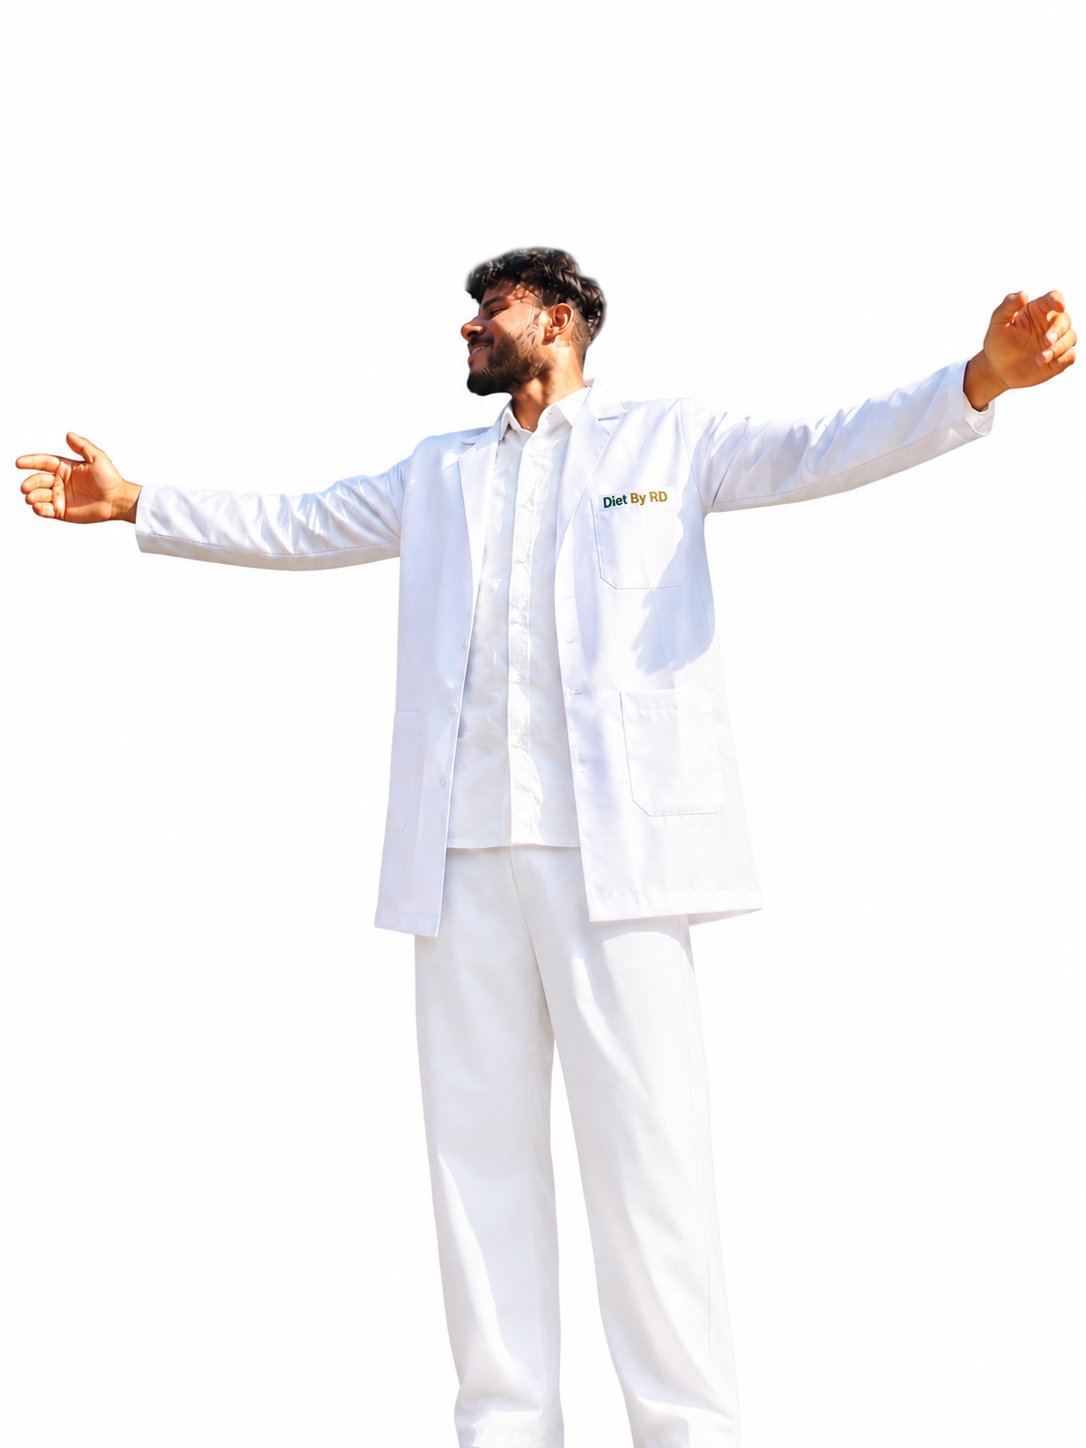
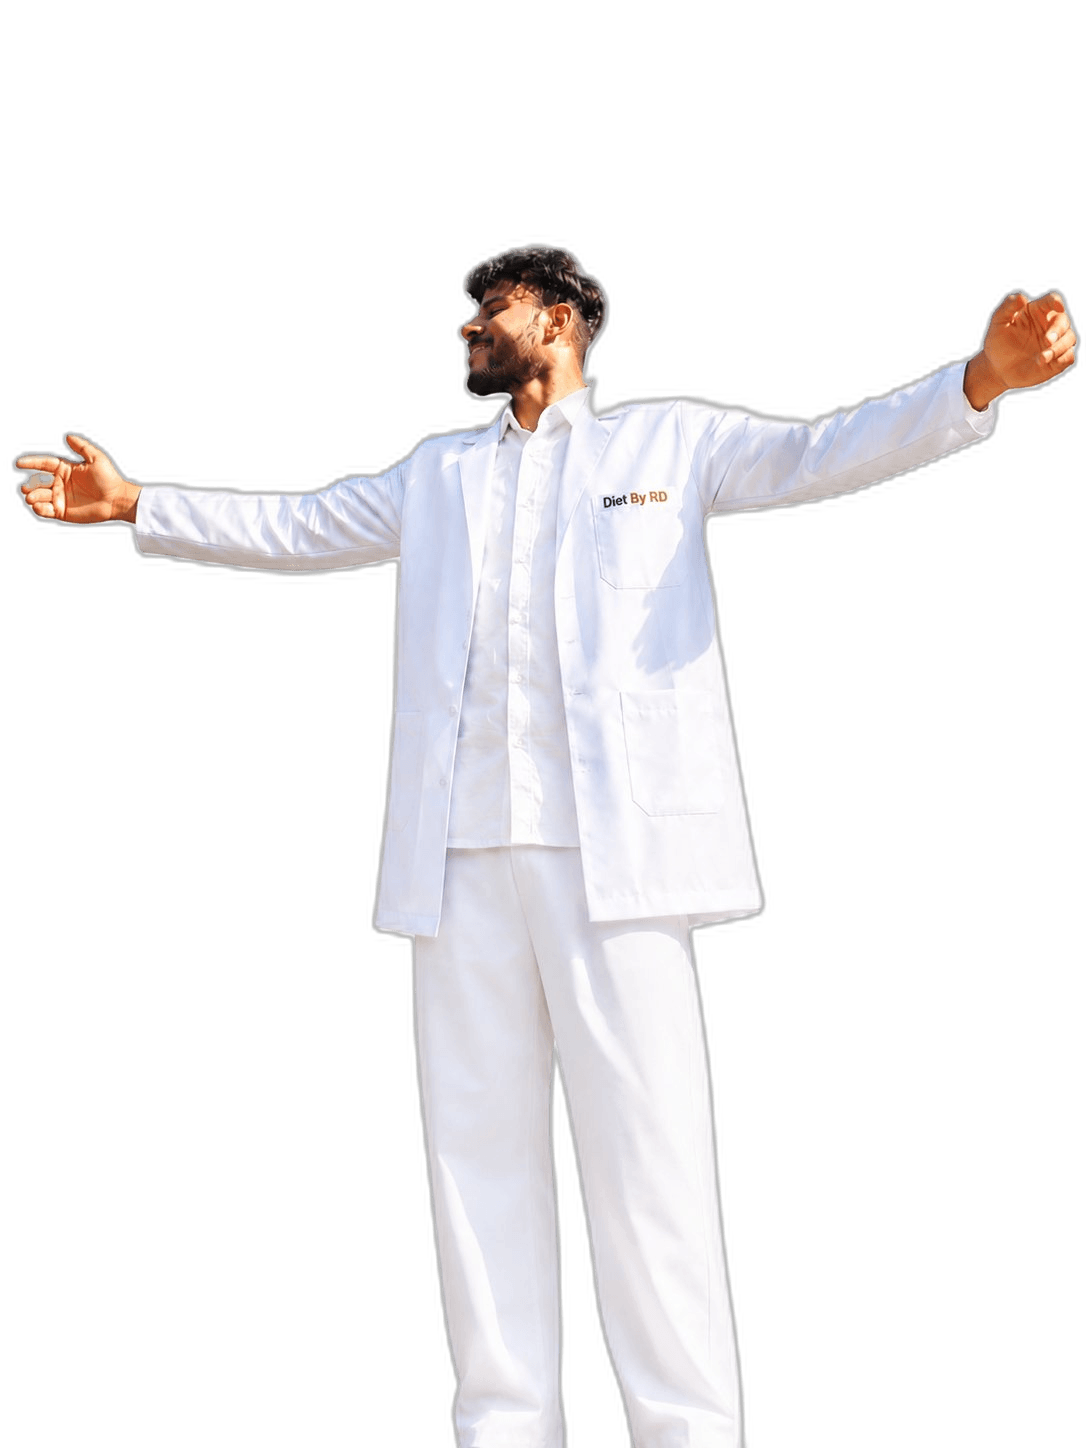
Fix scroll glitching on founder photo by replacing fake transparency
aryan-bhagat-founder.png was an opaque photo faked-transparent via
mix-blend-mode: multiply -- the same pattern already fixed twice this
session for other photos. Blend-mode compositing is expensive to
recompute every frame, especially combined with the image's own
transform and the section's scroll-triggered reveal animation, which
produced visible tearing/corruption while scrolling past this section.
Regenerated the photo as a true alpha-transparent cutout (rembg
u2net_human_seg) and dropped the blend-mode hack entirely.

diff --git a/src/pages/Landing.tsx b/src/pages/Landing.tsx
@@ -1825,8 +1825,6 @@ const Landing = () => {
                     objectFit: 'contain',
                     objectPosition: 'bottom center',
                     display: 'block',
-                    filter: 'none',
-                    mixBlendMode: 'multiply',
                     transform: 'scale(1.22) translate(-4%, 40px)',
                     transformOrigin: 'bottom center'
                   }}